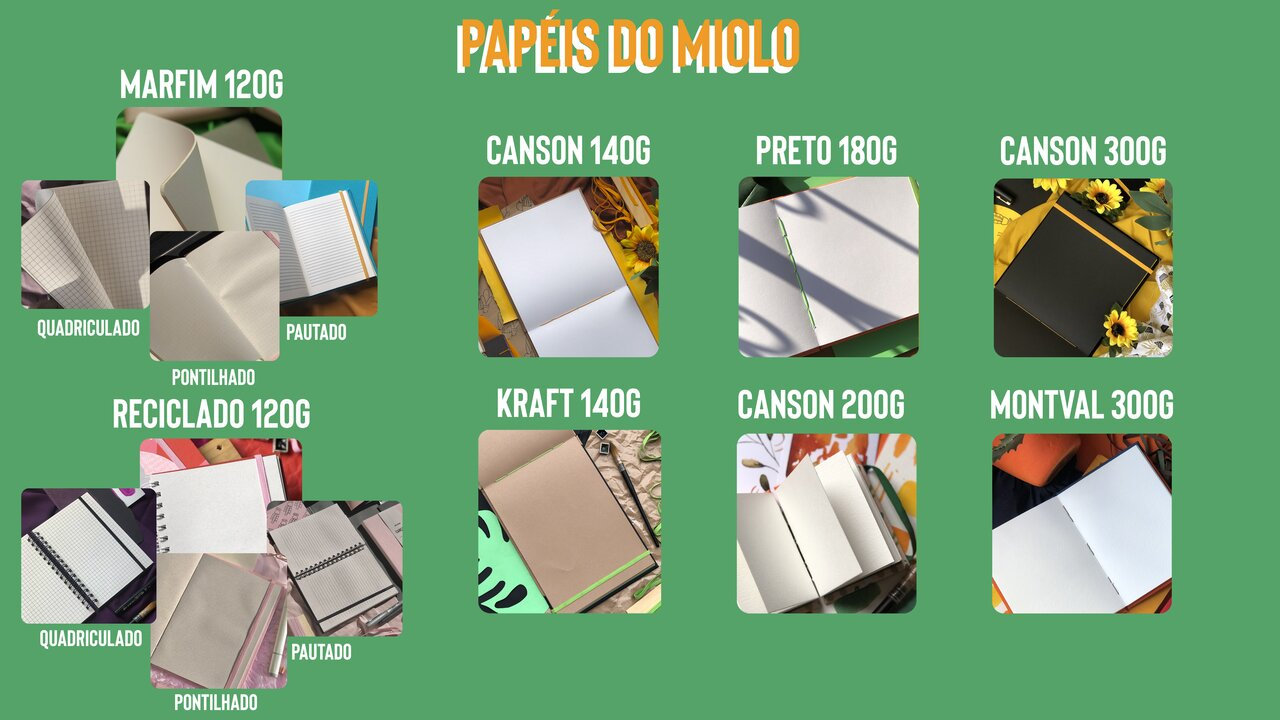
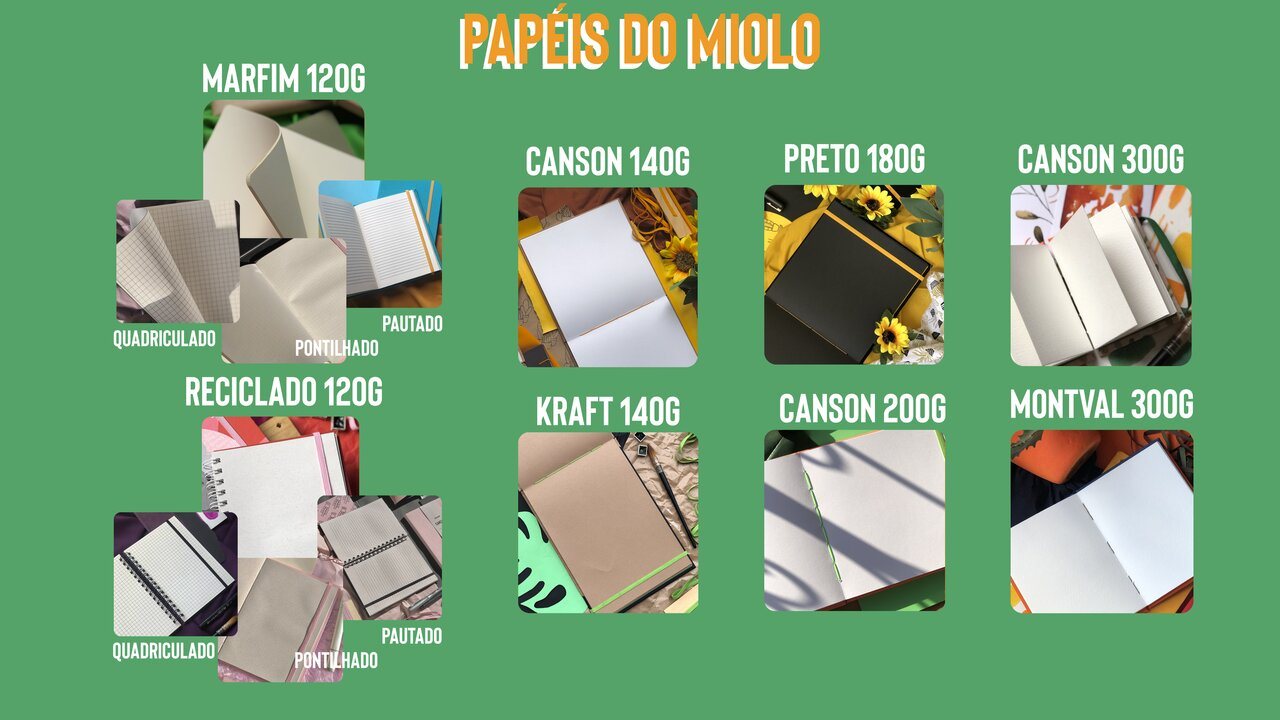
Updates foto papeis do miolo + papeis facheiro
Update na foto do papel do miolo

Adição dos papeis Reciclados: pontilhado, quadriculado e pautado no Facheiro A4

diff --git a/src/pages/create/facheiro/index.js b/src/pages/create/facheiro/index.js
@@ -118,6 +118,18 @@ export default function Facheiro() {
                         value: 67,
                     },
                     {
+                        name: 'Papel Reciclado Pontilhado',
+                        value: 67,
+                    },
+                    {
+                        name: 'Papel Reciclado Quadriculado',
+                        value: 67,
+                    },
+                    {
+                        name: 'Papel Reciclado Pautado',
+                        value: 67,
+                    },
+                    {
                         name: 'Papel Marfim Liso',
                         value: 67,
                     },
@@ -172,6 +184,18 @@ export default function Facheiro() {
                 types: [
                     {
                         name: 'Papel Reciclado Liso',
+                        value: 67,
+                    },
+                    {
+                        name: 'Papel Reciclado Pontilhado',
+                        value: 67,
+                    },
+                    {
+                        name: 'Papel Reciclado Quadriculado',
+                        value: 67,
+                    },
+                    {
+                        name: 'Papel Reciclado Pautado',
                         value: 67,
                     },
                     {
